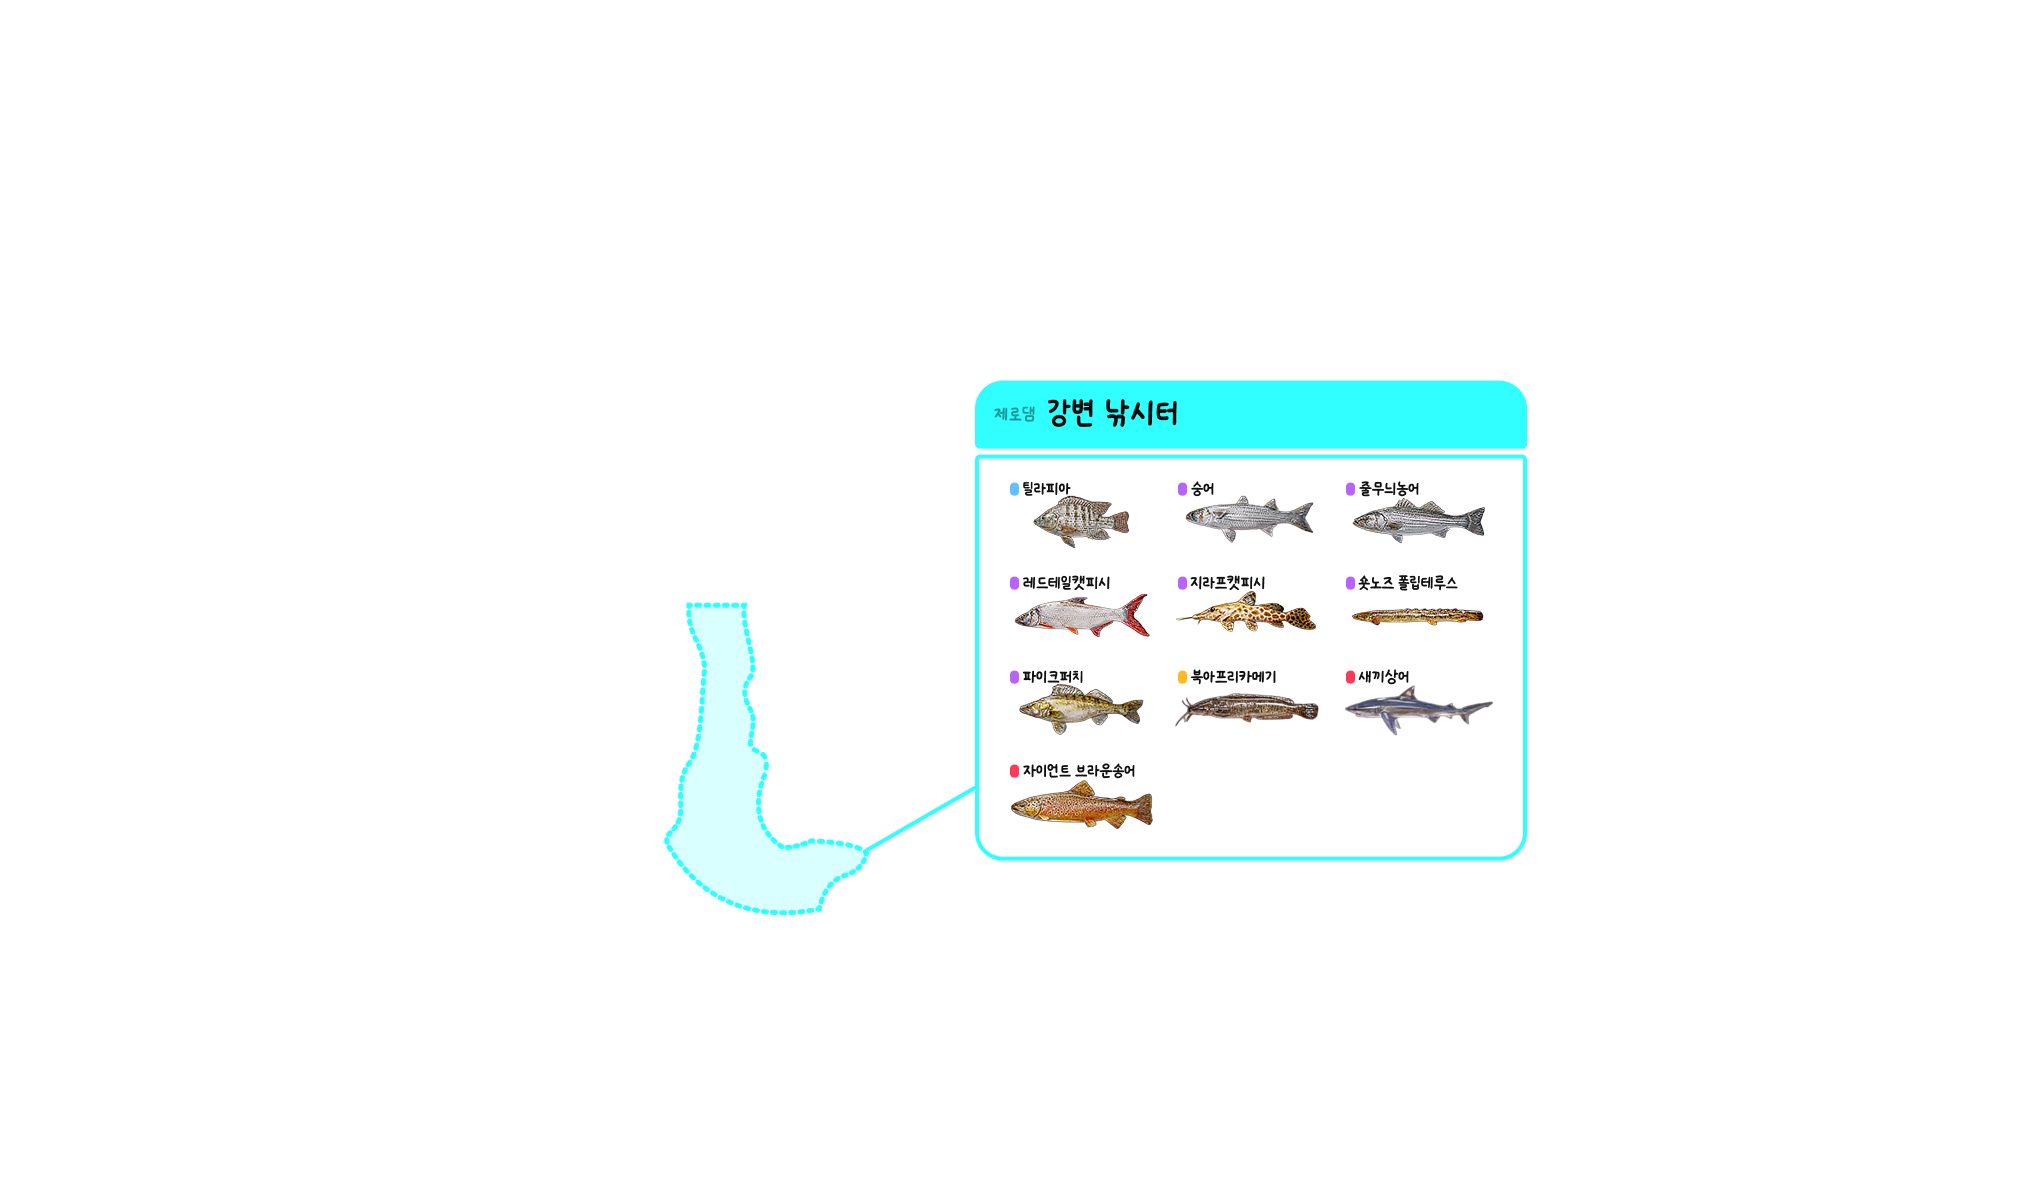
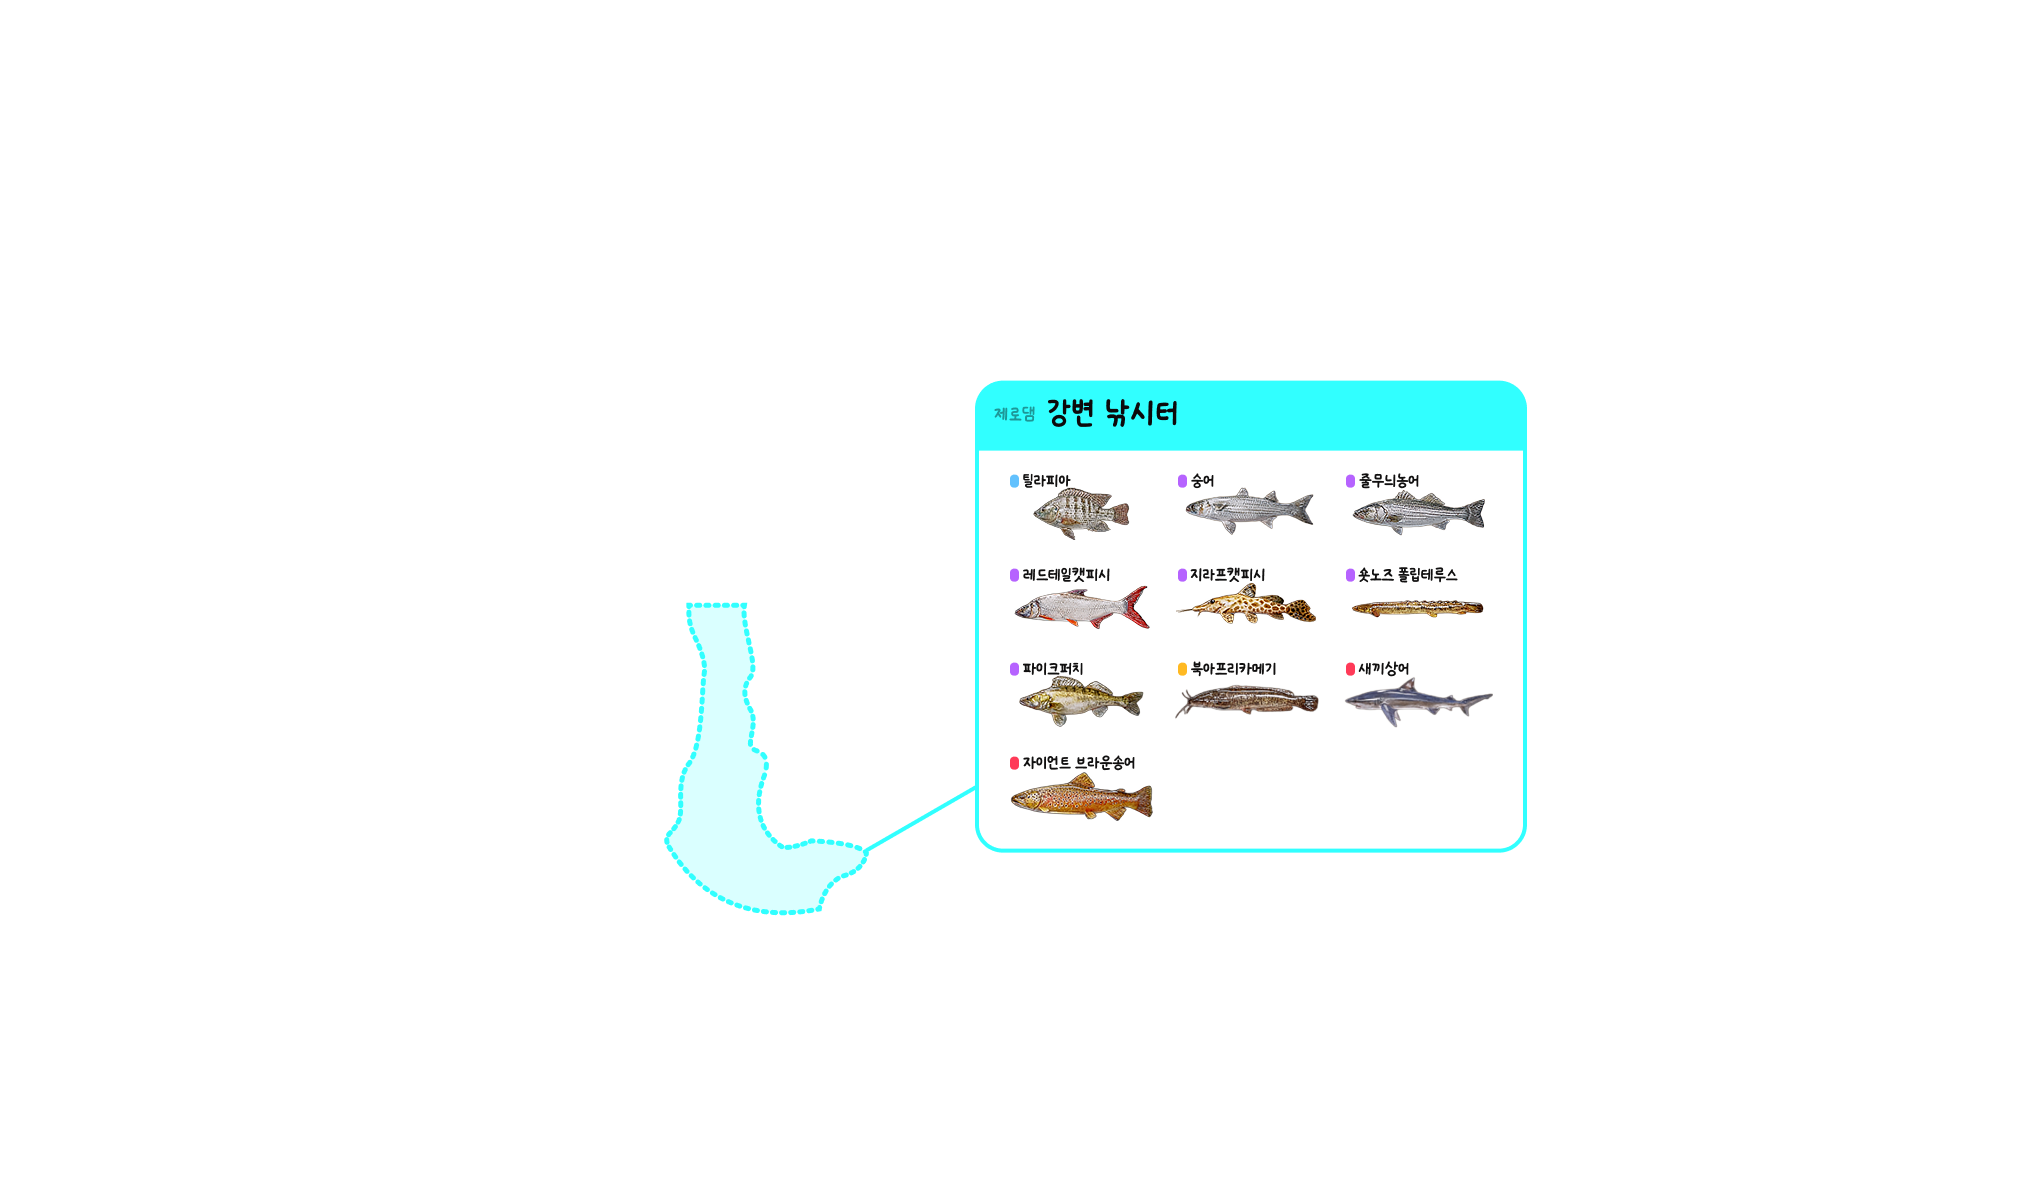
제로댐 강변·AZ3 외해 레이어 오버레이 이미지 교체

Changed region(s): [[0.4657, 0.3722, 0.7452, 0.5272], [0.4657, 0.5583, 0.7452, 0.7443]]

diff --git a/index.html b/index.html
@@ -19,7 +19,7 @@
 <meta name="twitter:image" content="https://jinah-c.github.io/delta-fishing-guide/img/npc/joe-reed.png">
 <link rel="icon" href="img/favicon.ico" sizes="16x16 32x32 48x48">
 <link rel="icon" type="image/png" href="img/favicon-32.png" sizes="32x32">
-<link rel="stylesheet" href="css/style.css?v=zerodambg">
+<link rel="stylesheet" href="css/style.css?v=layerimg2">
 </head>
 <body>
 <header class="site-header">
@@ -37,7 +37,7 @@
 <footer class="site-footer">
   <p>델타포스 S11 낚시 콘텐츠 비공식 정리. 인게임 미확인 명칭은 <span class="badge badge-unconfirmed">미확인</span>으로 표시.</p>
 </footer>
-<script src="js/data.js?v=zerodambg"></script>
-<script src="js/app.js?v=zerodambg"></script>
+<script src="js/data.js?v=layerimg2"></script>
+<script src="js/app.js?v=layerimg2"></script>
 </body>
 </html>

diff --git a/js/data.js b/js/data.js
@@ -164,7 +164,7 @@ const DATA = {
         "layers": [
           {
             "spotId": "zerodam-riverbank",
-            "image": "img/maps/zero-dam/riverbank.png?v=1"
+            "image": "img/maps/zero-dam/riverbank.png?v=2"
           }
         ]
       },
@@ -213,7 +213,7 @@ const DATA = {
         "layers": [
           {
             "spotId": "az3-offshore",
-            "image": "img/maps/az3/offshore.png?v=1"
+            "image": "img/maps/az3/offshore.png?v=2"
           },
           {
             "spotId": "az3-waterway",
